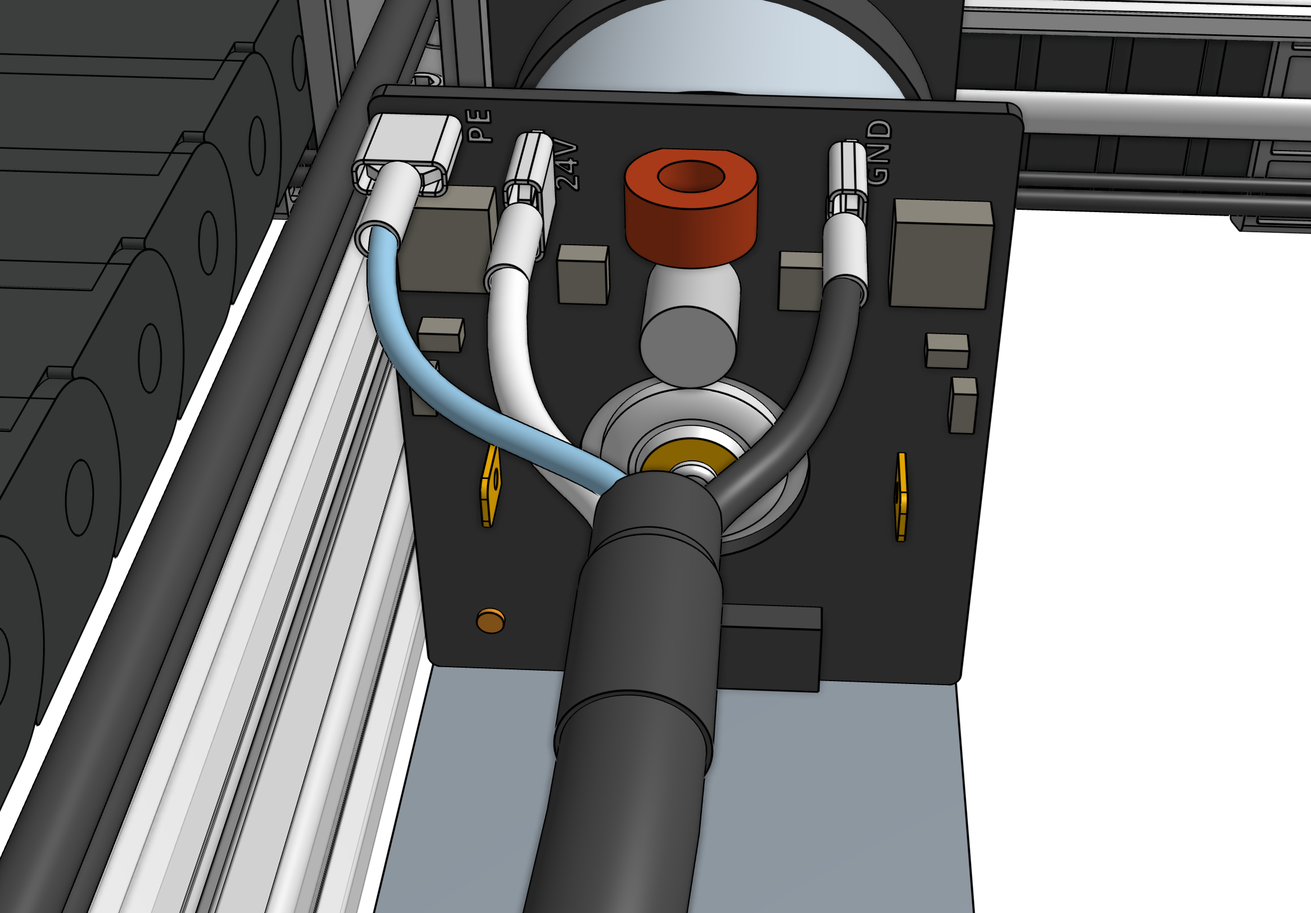
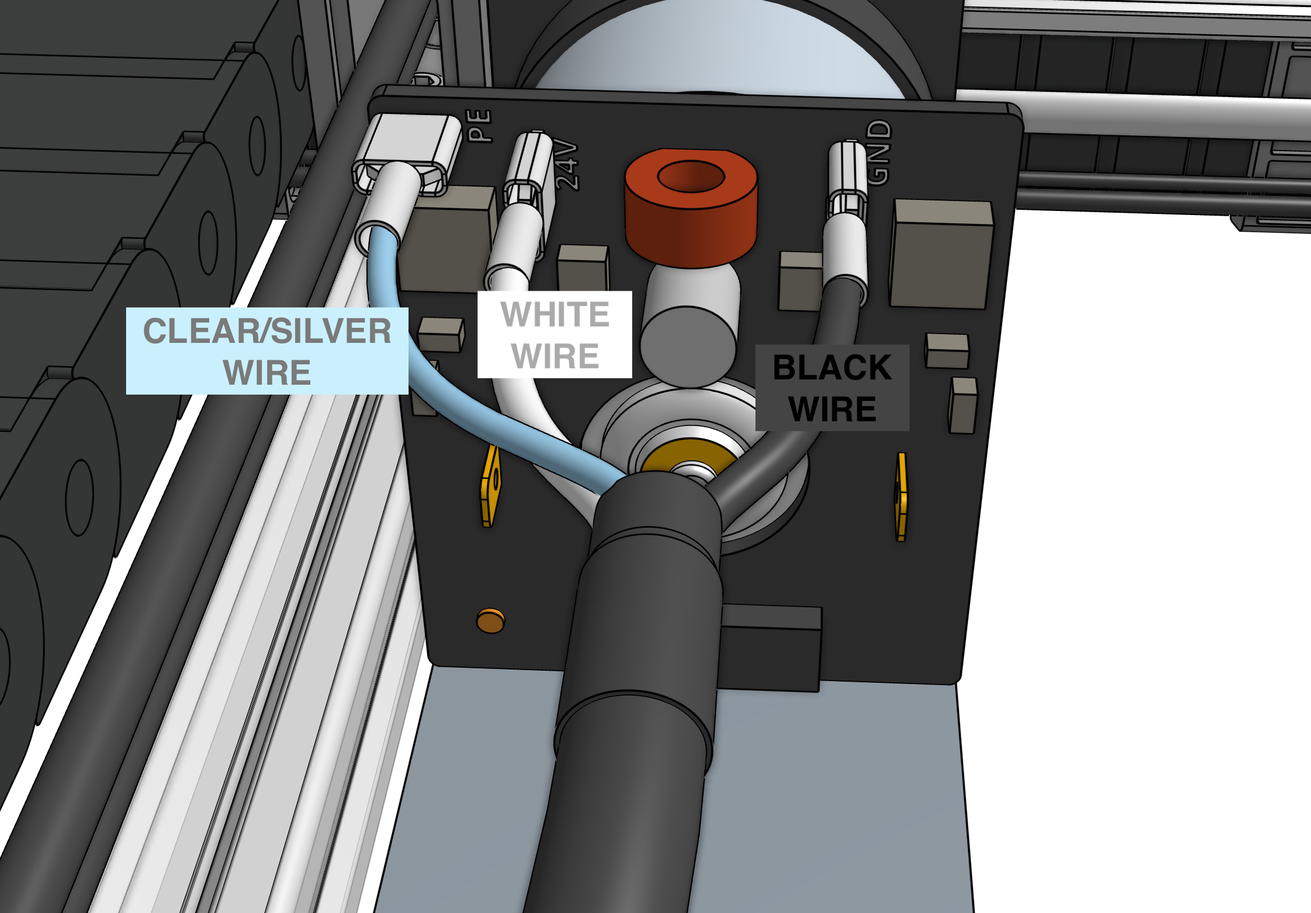
Vacuum pump cable callout (#63)
* improve vacuum pump cable instructions

* simplify syntax of XL stickers and tooltips

Changed region(s): [[0.0931, 0.3119, 0.3103, 0.4367], [0.3413, 0.3119, 0.4965, 0.4367], [0.5585, 0.3743, 0.7137, 0.499]]

diff --git a/v1.6/assembly/supporting-infrastructure/raised-bed.md b/v1.6/assembly/supporting-infrastructure/raised-bed.md
@@ -4,7 +4,7 @@ slug: "raised-bed"
 description: "Step-by-step instructions for building a fixed raised bed for FarmBot Genesis or Genesis XL"
 ---
 
-Building a **fixed raised bed** is the recommended method for installing FarmBot Genesis or Genesis <span class="fb-xl-sticker">XL</span> outdoors. In these instructions we show you how to build a simple but sturdy bed that will fit into most yards, look great, and last a lifetime.
+Building a **fixed raised bed** is the recommended method for installing FarmBot Genesis or Genesis (XL) outdoors. In these instructions we show you how to build a simple but sturdy bed that will fit into most yards, look great, and last a lifetime.
 
 {% include gallery.html images="
 ![genesis fixed raised bed](_images/fixed_raised_bed_fill_bed.png)
@@ -20,7 +20,7 @@ content="This is the estimated time it will take to build a fixed raised bed."
 
 # Maximum raised bed size
 
-The reference designs shown on this documentation page are for a **maximally sized** fixed raised bed for the stock Genesis and Genesis <span class="fb-xl-sticker">XL</span> kits. If you are designing a bed for a smaller installation, you will need to modify the dimensions of the lumber and post hole layouts.
+The reference designs shown on this documentation page are for a **maximally sized** fixed raised bed for the stock Genesis and Genesis (XL) kits. If you are designing a bed for a smaller installation, you will need to modify the dimensions of the lumber and post hole layouts.
 
 We recommend building your raised bed as large as possible to get the most value out of your FarmBot. See the [economies of scale](../intro/high-level-overview.md#economies-of-scale) section for more information on maximizing FarmBot value.
 
@@ -29,7 +29,7 @@ If you are going to modify our reference design, use the dimension guidelines be
 |Model      |Outer Bed Width|Outer Bed Length|
 |-----------|---------------|----------------|
 |Genesis    |1.48m max      |3m recommended
-|Genesis <span class="fb-xl-sticker">XL</span> |2.98m max      |6m recommended
+|Genesis (XL) |2.98m max      |6m recommended
 
 {%
 include callout.html
@@ -110,7 +110,7 @@ Importantly, all of the post tops must be level with each other. Dig out or back
 
 # Step 5: Attach the short walls
 
-Clamp a **short wall** to the **posts** on one of the short sides of the bed. The posts should be flush with the top edge and ends of the short wall. If you are building an <span class="fb-xl-sticker">XL</span> bed, also clamp the middle post to the short wall.
+Clamp a **short wall** to the **posts** on one of the short sides of the bed. The posts should be flush with the top edge and ends of the short wall. If you are building an (XL) bed, also clamp the middle post to the short wall.
 
 Drill appropriately sized holes for the lag screws or bolts you will be using. There should be two holes per post. The upper holes should be positioned 50mm from the top edge of the short wall. The lower holes should be positioned 50mm from the bottom edge of the short wall. All holes should be center-aligned on the post.
 
@@ -135,7 +135,7 @@ Repeat for the second **short wall** on the opposite side of the bed.
 
 # Step 6: Attach the long walls
 
-Clamp the **long wall(s)** to the posts along a long side of the bed. The ends of the long wall(s) should be flush with the outer face of the short walls. If you are building an <span class="fb-xl-sticker">XL</span> bed, the two long walls must meet at the middle of the middle post.
+Clamp the **long wall(s)** to the posts along a long side of the bed. The ends of the long wall(s) should be flush with the outer face of the short walls. If you are building an (XL) bed, the two long walls must meet at the middle of the middle post.
 
 Drill two holes per wall-post attachment point. The upper holes should be positioned 80mm from the top edge of the long wall(s). The lower holes should be positioned 80mm from the bottom edge of the long wall(s).
 
@@ -173,7 +173,7 @@ With larger raised beds, especially those for FarmBot Genesis XL, it is possible
 
 # Step 8: Fill the bed
 
-Back-fill the post holes with native soil, making sure to compact around the posts to reduce movement. Then fill the bed with gardening soil or a mix of native soil and compost, keeping out large rocks and branches. The Genesis bed will require approximately 1m<sup>2</sup> of soil, while the Genesis <span class="fb-xl-sticker">XL</span> bed will require approximately 4m<sup>2</sup>.
+Back-fill the post holes with native soil, making sure to compact around the posts to reduce movement. Then fill the bed with gardening soil or a mix of native soil and compost, keeping out large rocks and branches. The Genesis bed will require approximately 1m<sup>2</sup> of soil, while the Genesis (XL) bed will require approximately 4m<sup>2</sup>.
 
 {% include gallery.html images="
 ![fill genesis bed](_images/fixed_raised_bed_fill_bed.png)

diff --git a/v1.6/assembly/intro/past-versions.md b/v1.6/assembly/intro/past-versions.md
@@ -26,7 +26,7 @@ content="View the [FarmBot Genesis v1.5 documentation](http://genesis.farm.bot/d
 %}
 
 **Major changes**
-* Introduced FarmBot Genesis MAX v1.5, covering an area 3m wide and 18m in length (3x larger than <span class="fb-xl-sticker">XL</span> and 12x larger than the smallest size). Due to low demand, this model was later cancelled.
+* Introduced FarmBot Genesis MAX v1.5, covering an area 3m wide and 18m in length (3x larger than (XL) and 12x larger than the smallest size). Due to low demand, this model was later cancelled.
 * Introduced a new version of the Farmduino, featuring integrated Trinamic TMC2130 stepper drivers that are controlled with a SPI interface. The new drivers deliver more current to the motors, offer significantly quieter operation, and can be tuned via software. The new board also adds load detection circuitry to all of the peripherals.
 * Introduced modularized cables and tubing with 90-degree connectors at the junction between the Y and Z axis cable carriers. This makes assembly and disassembly of the FarmBot much easier.
 * Switched to using nut bars and flange locknuts throughout the majority of the FarmBot allowing for faster and more robust assembly and a significantly reduced part count. Many of the plate hole layouts were simplified to accommodate nut bars.
@@ -67,7 +67,7 @@ content="View the [FarmBot Genesis v1.4 documentation](http://genesis.farm.bot/d
 %}
 
 **Major changes**
-  * Introduced Genesis <span class="fb-xl-sticker">XL</span> covering an area 3m wide and 6m in length (400% larger than the smaller FarmBot Genesis)
+  * Introduced Genesis (XL) covering an area 3m wide and 6m in length (400% larger than the smaller FarmBot Genesis)
   * Introduced a new version of the Farmduino featuring an STM32 co-processor dedicated to monitoring the rotary encoders, 24V operation, a new 2-pin polarized red power connector, vertically oriented USB ports, pre-installed pin jumpers to connect the UTM, improved board layout for accessing the stepper drivers and dip switches, additional circuitry to better handle motor back-current, matte-black finish, and a single blade fuse
   * Introduced a new preassembled electronics box featuring five push-buttons and four LED indicator lights, the Pi Adapter Board, board mounting bosses, and modified latches to prevent catching rain
   * Introduced a new preassembled injection molded UTM featuring a PCB with gold-plated pogo pins and pin headers for attaching to the cable with shroud (eliminating the need for a separate cover and grommets)
@@ -90,7 +90,7 @@ content="View the [FarmBot Genesis v1.4 documentation](http://genesis.farm.bot/d
 |Model                         |# of Kits Manufactured        |Selling Period                |First Shipped                 |
 |------------------------------|------------------------------|------------------------------|------------------------------|
 |Genesis v1.4                  |300                           |Dec '17 to Nov '19            |Oct '18
-|Genesis <span class="fb-xl-sticker">XL</span> v1.4               |200                           |Dec '17 to Mar '19            |Oct '18
+|Genesis (XL) v1.4               |200                           |Dec '17 to Mar '19            |Oct '18
 
 # Genesis v1.3
 

diff --git a/v1.6/assembly/tracks.md b/v1.6/assembly/tracks.md
@@ -4,7 +4,7 @@ slug: "tracks"
 description: "Documentation and assembly instructions for the FarmBot Genesis tracks"
 ---
 
-FarmBot's **tracks** allow the gantry to move precisely along the x-axis. They are designed to attach to a raised bed or similar [supporting infrastructure](supporting-infrastructure.md). Each track is composed of 1.5m long aluminum extrusions positioned end-to-end to form a total track length of 3m for Genesis models and 6m for Genesis <span class="fb-xl-sticker">XL</span>.
+FarmBot's **tracks** allow the gantry to move precisely along the x-axis. They are designed to attach to a raised bed or similar [supporting infrastructure](supporting-infrastructure.md). Each track is composed of 1.5m long aluminum extrusions positioned end-to-end to form a total track length of 3m for Genesis models and 6m for Genesis (XL).
 
 ![Completed tracks](_images/completed_tracks.png)
 
@@ -15,7 +15,7 @@ title="2-12 hours"
 content="This is the estimated time it will take to assemble the tracks, mostly dependent on which size kit you have."
 %}
 
-The two tracks must be a parallel distance apart between 0.5m and 1.5m for Genesis, and 1.5m and 3m for Genesis <span class="fb-xl-sticker">XL</span> so that the gantry may span the distance between them. Tracks may be spaced closer together than the maximum, in which case you may consider cutting the gantry main beam so that it does not inconveniently extend beyond the tracks.
+The two tracks must be a parallel distance apart between 0.5m and 1.5m for Genesis, and 1.5m and 3m for Genesis (XL) so that the gantry may span the distance between them. Tracks may be spaced closer together than the maximum, in which case you may consider cutting the gantry main beam so that it does not inconveniently extend beyond the tracks.
 
 # Shortening the tracks
 
@@ -56,7 +56,7 @@ content="The ends of your tracks do not have to match up perfectly with the ends
 
 Attach six [[30mm horizontal cable carrier supports]] to the *lower slot* of a [[track extrusion]] using [[40mm nut bars]] and [[M5 x 10mm screws]]. The supports should be spaced evenly along the length of the extrusion, and they should be attached to the track extrusions on the side of the bed that you intend to be the left side of the FarmBot (when looking from the front).
 
-Repeat for all of the track extrusions on the side of the bed that will eventually have the electronics box (two extrusions total for Genesis, four for Genesis <span class="fb-xl-sticker">XL</span>).
+Repeat for all of the track extrusions on the side of the bed that will eventually have the electronics box (two extrusions total for Genesis, four for Genesis (XL)).
 
 {% include gallery.html images="
 ![Attach horizontal cable carrier supports](_images/attach_horizontal_cable_carrier_supports_1.png)

diff --git a/v1.5/manufacturing/packing/hardware-box.md b/v1.5/manufacturing/packing/hardware-box.md
@@ -4,7 +4,7 @@ slug: "hardware-box"
 description: "Packing details for the hardware box inside each main carton"
 ---
 
-There are two versions of the hardware box: one for **Genesis** kits and one for **Genesis XL** kits (denoted by an <span class="fb-xl-sticker">XL</span> sticker). The table below shows the items that should be packed into each version.
+There are two versions of the hardware box: one for **Genesis** kits and one for **Genesis XL** kits (denoted by an (XL) sticker). The table below shows the items that should be packed into each version.
 
 # Packing list
 
@@ -13,7 +13,7 @@ There are two versions of the hardware box: one for **Genesis** kits and one for
 |Pack of:<br>- 1x M5 to Luer Lock Adapter<br>- 3x Luer Lock Needle w/ cover (16 Gauge)<br>- 3x Luer Lock Needle w/ cover (19 Gauge)<br>- 3x Luer Lock Needle w/ cover (22 Gauge)|Press-to-seal bag|1 pack|1 pack
 |Pack of:<br>- 3x 20 Tooth GT2 Pulleys<br>- 1x 5mm to 8mm Shaft Coupler<br>- 1x Leadscrew Block<br>- 1x 90 Degree Barb<br>- 1x Inline Air Filter|Press-to-seal bag|1 pack|1 pack
 |Genesis Screw Pack:<br>- 35x Wood Screws<br>- 16x M3 Locknuts<br>- 10x M3 x 6mm Screws<br>- 40x M3 x 12mm Screws<br>- 70x M5 Flange Locknuts<br>- 150x M5 x 10mm Screws<br>- 40x M5 x 16mm Screws<br>- 40x M5 x 30mm Screws<br>- 30x M5 x 6mm Spacers|Press-to-seal bag|1 pack|-
-|Genesis <span class="fb-xl-sticker">XL</span> Screw Pack:<br>- 60x Wood Screws<br>- 16x M3 Locknuts<br>- 10x M3 x 6mm Screws<br>- 40x M3 x 12mm Screws<br>- 70x M5 Flange Locknuts<br>- 225x M5 x 10mm Screws<br>- 40x M5 x 16mm Screws<br>- 40x M5 x 30mm Screws<br>- 30x M5 x 6mm Spacers|Press-to-seal bag|-|1 pack
+|Genesis (XL) Screw Pack:<br>- 60x Wood Screws<br>- 16x M3 Locknuts<br>- 10x M3 x 6mm Screws<br>- 40x M3 x 12mm Screws<br>- 70x M5 Flange Locknuts<br>- 225x M5 x 10mm Screws<br>- 40x M5 x 16mm Screws<br>- 40x M5 x 30mm Screws<br>- 30x M5 x 6mm Spacers|Press-to-seal bag|-|1 pack
 |[Tools Box](tools-box.md)|-|1|1
 |[UTM Box](utm-box.md)|-|1|1
 |[Solenoid Valve](../../Extras/bom/electronics-and-wiring.md#solenoid-valve)|Small box (no printing)|1|1
@@ -54,6 +54,6 @@ There are two versions of the hardware box: one for **Genesis** kits and one for
 |**Material**                  |Cardboard
 |**Color**                     |Brown
 |**Printing**                  |None
-|**Sticker**                   |<span class="fb-xl-sticker">XL</span> sticker for Genesis XL kits
+|**Sticker**                   |(XL) sticker for Genesis XL kits
 |**Fill**                      |Recycled kraft paper
 

diff --git a/v1.6/manufacturing/packing/hardware-kit.md b/v1.6/manufacturing/packing/hardware-kit.md
@@ -4,15 +4,15 @@ slug: "hardware-kit"
 description: "Packing details for the hardware kit inside each main carton"
 ---
 
-There are two versions of the hardware kit: one for **Genesis** kits and one for **Genesis** <span class="fb-xl-sticker">XL</span> kits (denoted by an <span class="fb-xl-sticker">XL</span> sticker). The table below shows the items that should be packed into each version.
+There are two versions of the hardware kit: one for **Genesis** kits and one for **Genesis** (XL) kits (denoted by an (XL) sticker). The table below shows the items that should be packed into each version.
 
 # Packing list
 
-|Item|Sub-packing|Genesis Qty|Genesis <span class="fb-xl-sticker">XL</span> Qty|
+|Item|Sub-packing|Genesis Qty|Genesis (XL) Qty|
 |----|-----------|-----------|--------------|
 |Pack of:<br>- 3x [[Pulleys]]<br>- 1x [[Shaft Coupler]]<br>- 1x [[Leadscrew Block]]<br>- 1x [[90-Degree Barb]]<br>- 1x [[Inline Air Filter]]|Press-to-seal bag|1 pack|1 pack
 |Genesis Screw Pack:<br>- 35x [[Wood Screws]]<br>- 16x [[M3 Locknuts]]<br>- 10x [[M3 x 6mm Screws]]<br>- 40x [[M3 x 12mm Screws]]<br>- 70x [[M5 Flange Locknuts]]<br>- 150x [[M5 x 10mm Screws]]<br>- 40x [[M5 x 16mm Screws]]<br>- 40x [[M5 x 30mm Screws]]<br>- 30x [[Standard Spacers]]|Press-to-seal bag|1 pack|-
-|Genesis <span class="fb-xl-sticker">XL</span> Screw Pack:<br>- 60x [[Wood Screws]]<br>- 16x [[M3 Locknuts]]<br>- 10x [[M3 x 6mm Screws]]<br>- 40x [[M3 x 12mm Screws]]<br>- 70x [[M5 Flange Locknuts]]<br>- 225x [[M5 x 10mm Screws]]<br>- 40x [[M5 x 16mm Screws]]<br>- 40x [[M5 x 30mm Screws]]<br>- 30x [[Standard Spacers]]|Press-to-seal bag|-|1 pack
+|Genesis (XL) Screw Pack:<br>- 60x [[Wood Screws]]<br>- 16x [[M3 Locknuts]]<br>- 10x [[M3 x 6mm Screws]]<br>- 40x [[M3 x 12mm Screws]]<br>- 70x [[M5 Flange Locknuts]]<br>- 225x [[M5 x 10mm Screws]]<br>- 40x [[M5 x 16mm Screws]]<br>- 40x [[M5 x 30mm Screws]]<br>- 30x [[Standard Spacers]]|Press-to-seal bag|-|1 pack
 |[Solenoid Valve](../packing/solenoid-valve.md)|Small box|1|1
 |[Vacuum Pump](../packing/vacuum-pump.md)|Small box|1|1
 |[[Vacuum Tubes]]|None|2
@@ -50,6 +50,6 @@ There are two versions of the hardware kit: one for **Genesis** kits and one for
 |**Material**                    |Cardboard
 |**Color**                       |Brown
 |**Printing**                    |None
-|**Sticker**                     |<span class="fb-xl-sticker">XL</span> sticker for Genesis XL kits
+|**Sticker**                     |(XL) sticker for Genesis XL kits
 |**Fill**                        |Recycled kraft paper
 

diff --git a/v1.6/manufacturing/packing/pallet-stacking.md b/v1.6/manufacturing/packing/pallet-stacking.md
@@ -39,7 +39,7 @@ Wrap the entire stack with clear plastic.
 
 ## Step 1: First three layers
 
-Stack three layers of **extrusion and leadscrew kits** onto an **extended-length pallet**. Genesis kits should have 7 boxes per layer, while Genesis <span class="fb-xl-sticker">XL</span> should have 6 boxes per layer.
+Stack three layers of **extrusion and leadscrew kits** onto an **extended-length pallet**. Genesis kits should have 7 boxes per layer, while Genesis (XL) should have 6 boxes per layer.
 
 {%
 include callout.html
@@ -56,7 +56,7 @@ XL kits must be stacked **horizontally** to provide better stability.
 
 ![genesis xl extrusion pallet first 3 layers of 6](_images/genesis_xl_extrusion_pallet_first_3_layers_of_6.png)
 
-_Genesis <span class="fb-xl-sticker">XL</span> kits (6 on each layer)_
+_Genesis (XL) kits (6 on each layer)_
 
 ## Step 2: Cardboard separator
 
@@ -82,8 +82,8 @@ Wrap the entire stack with clear plastic.
 |---------------------------------------------------|----------|----------------------|--------------|
 |Genesis main cartons (19kg)                        |18        |1300 x 1020 x 1570mm  |342kg
 |Genesis extrusion and leadscrew kits (10 kg)       |42        |1530 x 1020 x 970mm   |420kg
-|Genesis <span class="fb-xl-sticker">XL</span> main cartons (23 kg)                    |18        |1300 x 1020 x 1570mm  |414kg
-|Genesis <span class="fb-xl-sticker">XL</span> extrusion and leadscrew kits (17 kg)    |36        |1530 x 1020 x 970mm   |612kg
+|Genesis (XL) main cartons (23 kg)                    |18        |1300 x 1020 x 1570mm  |414kg
+|Genesis (XL) extrusion and leadscrew kits (17 kg)    |36        |1530 x 1020 x 970mm   |612kg
 
 ## Maximizing pallet efficiency
 
@@ -92,7 +92,7 @@ Kits ordered in multiples of the quantities shown below will maximize pallet sta
 |FarmBot     |Kit Quantity |Pallet Quantity               |Pallet Length                 |
 |------------|-------------|------------------------------|------------------------------|
 |Genesis     |126          |7 (main cartons)<br>3 (extrusion and leadscrew kits)<br>**10 total**|7 x 1.3m<br>3 x 1.53m<br>**13.69m total**
-|Genesis <span class="fb-xl-sticker">XL</span>  |36           |2 (main cartons)<br>1 (extrusion and leadscrew kits)<br>**3 total**|2 x 1.3m<br>1 x 1.53m<br>**4.13m total**
+|Genesis (XL)  |36           |2 (main cartons)<br>1 (extrusion and leadscrew kits)<br>**3 total**|2 x 1.3m<br>1 x 1.53m<br>**4.13m total**
 
 ## Maximizing container efficiency
 

diff --git a/v1.6/extras/troubleshooting/track-tolerance.md b/v1.6/extras/troubleshooting/track-tolerance.md
@@ -9,6 +9,6 @@ At this time we have not done testing to determine the tolerance of track misali
 
 Basically there are many factors that will work in the bot’s favor and many more factors that will work against it. There is a limit to what the bot can do, and the key is getting a set of all the factors that sum up to something within the limit.
 
-For example, 1 degree of slope might be fine for most Genesis bots in ideal other conditions to overcome. But what about 1 degree of slope + headwind + dirt on the tracks + the added weight of an <span class="fb-xl-sticker">XL</span> gantry and tubing/wiring + eccentric spacers that are a little too tight? That 1 degree of slope might be too much. It’s tough to say without very exhaustive testing, and even then there will be nuances to each individual installation.
+For example, 1 degree of slope might be fine for most Genesis bots in ideal other conditions to overcome. But what about 1 degree of slope + headwind + dirt on the tracks + the added weight of an (XL) gantry and tubing/wiring + eccentric spacers that are a little too tight? That 1 degree of slope might be too much. It’s tough to say without very exhaustive testing, and even then there will be nuances to each individual installation.
 
 That all being said, our recommendation is that every FarmBot installer should strive to give their bot as much “distance” from the limit as possible because that will translate into greater reliability, especially when the bot is confronted with less controllable factors like dirt and temperature. Giving “distance” starts with well constructed [supporting infrastructure](../../assembly/supporting-infrastructure.md). If poor track alignment eats into most of that distance from the onset, then everything else is going to have to be close to ideal for the bot to work reliably. If the tracks are well aligned, it affords the bot more wiggle room with other factors later down the line.

diff --git a/v1.6/assembly/tools/seeder.md b/v1.6/assembly/tools/seeder.md
@@ -58,12 +58,31 @@ content="If you find during testing that there is air blowing out of the seeder 
 
 # Step 3: Wire up the vacuum pump
 
-Connect the [[vacuum pump cable]] to the [[vacuum pump]] terminals. The black wire should be connected to `GND` (the terminal on the right), the white wire should be connect to `24V` (the middle terminal), and the clear wire should be connected to `PE` (the terminal on the left at a 90-degree angle from the others). In a few steps from now, you will connect the other end of the cable to the Farmduino.
+Connect the [[vacuum pump cable]] to the [[vacuum pump]] terminals according to the images below.
+
+* Connect the **clear/silver wire** to the _terminal on the left_ labelled `PE`.
+* Connect the **white wire** to the _middle terminal_ labelled `24V`.
+* Connect the **black wire** to the _terminal on the right_ labelled `GND`.
+
+If you cannot see the colors of the wires, carefully peel back the black heatshrink covering the whole cable so that you can correctly identify the individual wire colors.
 
 {% include gallery.html images="
-![Wire up the vacuum pump](_images/wire_up_vacuum_pump.png)
 ![Wire up the vacuum pump](_images/wire_up_vacuum_pump_detail.png)
+![Wire up the vacuum pump](_images/wire_up_vacuum_pump.png)
 " %}
+
+{%
+include callout.html
+type="danger"
+title="Double check the wiring"
+content="Carefully inspect the images above and table below to ensure you have connected the wires correctly. **If you incorrectly wire up the vacuum pump, the vacuum pump's electronics will be permanently damaged as soon as your FarmBot is powered up.**
+
+|Wire color  |Should be connected to
+|------------|-----------------------|
+|Clear/silver|`PE` (Protect Earth)
+|White       |`24V` (24 Volts)
+|Black       |`GND` (Ground)"
+%}
 
 # Step 4: Attach the seed trough holder
 

diff --git a/v1.6/assembly/intro.md b/v1.6/assembly/intro.md
@@ -15,16 +15,16 @@ content="As of December 22, 2021, the default version of the Genesis documentati
 
 **FarmBot Genesis** is our top-of-the-line FarmBot model designed with the most features and flexibility. It is suitable for growing food with the highest level of precision, running complex experiments, and capable of being easily modified and extended to do more.
 
-Genesis is available in two sizes: **Genesis** and **Genesis** <span class="fb-xl-sticker">XL</span> as shown in the table below.
+Genesis is available in two sizes: **Genesis** and **Genesis** (XL) as shown in the table below.
 
 |Model                                        |Gantry Width|Track Length|Area            |Max Plant Height|
 |---------------------------------------------|------------|------------|----------------|----------------|
 |Genesis                                      |1.5m        |3m          |4.5m<sup>2</sup>|0.5m
-|Genesis <span class="fb-xl-sticker">XL</span>|3m          |6m          |18m<sup>2</sup> |0.5m
+|Genesis (XL)|3m          |6m          |18m<sup>2</sup> |0.5m
 
 {% include youtube.html id="60htrqei_U0" %}
 
-Genesis and Genesis <span class="fb-xl-sticker">XL</span> share many of the same components and assembly steps. This documentation covers the assembly, bill of materials, troubleshooting tips, and more of both models. When certain information only applies to one model or the other, there will be clear indication.
+Genesis and Genesis (XL) share many of the same components and assembly steps. This documentation covers the assembly, bill of materials, troubleshooting tips, and more of both models. When certain information only applies to one model or the other, there will be clear indication.
 
 # Purchasing a kit
 

diff --git a/v1.6/assembly/intro/high-level-overview.md b/v1.6/assembly/intro/high-level-overview.md
@@ -4,7 +4,7 @@ slug: "high-level-overview"
 description: "Bird's eye view of FarmBot Genesis and Genesis XL"
 ---
 
-**FarmBot Genesis** and **Genesis** <span class="fb-xl-sticker">XL</span> are primarily constructed from V-slot aluminum extrusions and aluminum plates and brackets. They are driven by four NEMA 17 stepper motors with rotary encoders, the Farmduino electronics board, and a Raspberry Pi 3 computer.  Current models cover growing areas as small 1m<sup>2</sup> up to a maximum of 18m<sup>2</sup>, and plants as tall as 1m.
+**FarmBot Genesis** and **Genesis** (XL) are primarily constructed from V-slot aluminum extrusions and aluminum plates and brackets. They are driven by four NEMA 17 stepper motors with rotary encoders, the Farmduino electronics board, and a Raspberry Pi 3 computer.  Current models cover growing areas as small 1m<sup>2</sup> up to a maximum of 18m<sup>2</sup>, and plants as tall as 1m.
 
 {% include gallery.html images="
 ![farmbot genesis v1.6](_images/farmbot_genesis_v1.6.png)
@@ -99,7 +99,7 @@ The table below shows the cost/m<sup>2</sup> of growing area based on the size o
 |Model                                        |Track Length|Gantry Width|Growing Area     |Cost    |Cost/m^2|
 |---------------------------------------------|------------|------------|-----------------|--------|--------|
 |Genesis                                      |3m          |1.5m        |4.5m<sup>2</sup> |~$3,000 |$667
-|Genesis <span class="fb-xl-sticker">XL</span>|6m          |3m          |18m<sup>2</sup>  |~$5,000 |$278
+|Genesis (XL)|6m          |3m          |18m<sup>2</sup>  |~$5,000 |$278
 
 
 # What's next?

diff --git a/v1.6/manufacturing/packing/plastic-parts-kit.md b/v1.6/manufacturing/packing/plastic-parts-kit.md
@@ -4,11 +4,11 @@ slug: "plastic-parts-kit"
 description: "Packing details for the plastic parts kit inside each main carton"
 ---
 
-There are two versions of the plastic parts kit: one for **Genesis** kits and one for **Genesis** <span class="fb-xl-sticker">XL</span> kits (denoted by an <span class="fb-xl-sticker">XL</span> sticker). The table below shows the items that should be packed into each version.
+There are two versions of the plastic parts kit: one for **Genesis** kits and one for **Genesis** (XL) kits (denoted by an (XL) sticker). The table below shows the items that should be packed into each version.
 
 # Packing list
 
-|Item|Sub-packing|Genesis Qty|Genesis <span class="fb-xl-sticker">XL</span> Qty|
+|Item|Sub-packing|Genesis Qty|Genesis (XL) Qty|
 |----|-----------|-----------|--------------|
 |[Pre-Assembled Seeder](../pre-assembly/tools/seeder.md)|Seeder Box|1|1
 |[Pre-Assembled Watering Nozzle](../pre-assembly/tools/watering-nozzle.md)|Watering Nozzle Box|1|1
@@ -41,6 +41,6 @@ There are two versions of the plastic parts kit: one for **Genesis** kits and on
 |**Material**                    |Cardboard
 |**Color**                       |Brown
 |**Printing**                    |None
-|**Sticker**                     |<span class="fb-xl-sticker">XL</span> sticker for Genesis XL kits
+|**Sticker**                     |(XL) sticker for Genesis XL kits
 |**Fill**                        |Recycled kraft paper
 

diff --git a/v1.5/manufacturing/packing/main-carton-packing.md b/v1.5/manufacturing/packing/main-carton-packing.md
@@ -26,10 +26,10 @@ The tables below show the items that should be packed into the **main carton** f
 
 |Item                          |Sub-packing                   |Genesis XL Qty                |
 |------------------------------|------------------------------|------------------------------|
-|<span class="fb-xl-sticker">XL</span> [Hardware Box](hardware-box.md)             |None                          |1
-|<span class="fb-xl-sticker">XL</span> [Plate Box](plate-box.md)                |None                          |1
-|<span class="fb-xl-sticker">XL</span> [Plastic Parts Box](plastic-parts-box.md)        |None                          |1
-|<span class="fb-xl-sticker">XL</span> [Cable and Tubing Box](cable-and-tubing-box.md)     |None                          |1
+|(XL) [Hardware Box](hardware-box.md)             |None                          |1
+|(XL) [Plate Box](plate-box.md)                |None                          |1
+|(XL) [Plastic Parts Box](plastic-parts-box.md)        |None                          |1
+|(XL) [Cable and Tubing Box](cable-and-tubing-box.md)     |None                          |1
 |[Motor Box](motor-box.md)                     |None                          |1
 |[Power Supply Box](power-supply-box.md)              |None                          |1
 |[X-Axis Cable Carrier](../../Extras/bom/electronics-and-wiring.md#cable-carrier) (15 x 30 x 3200mm)|None (no plastic bag)         |1
